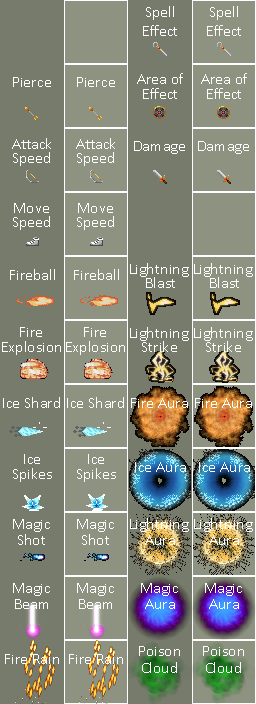
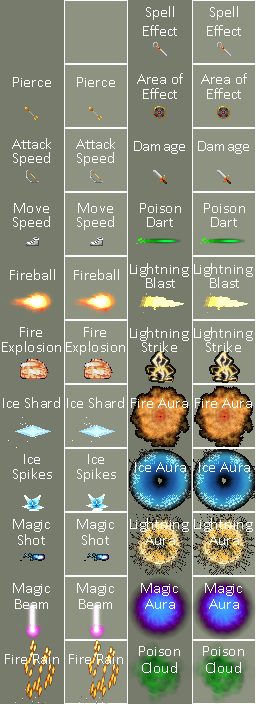
Replace projectiles (#68)
* feat: replace fireball and ice shard

* feat: replace lightning blast

* feat: update credits

* feat: add poison dart

diff --git a/RogueliteSurvivor/RogueliteSurvivor/Scenes/GameScene.cs b/RogueliteSurvivor/RogueliteSurvivor/Scenes/GameScene.cs
@@ -156,6 +156,7 @@ namespace RogueliteSurvivor.Scenes
                 { "FireRain", Content.Load<Texture2D>(Path.Combine("Spells", "fire-rain")) },
                 { "PoisonCloud", Content.Load<Texture2D>(Path.Combine("Spells", "poison-cloud")) },
                 { "EnemyEnergyBlast", Content.Load<Texture2D>(Path.Combine("Spells", "enemy-energy-blast")) },
+                { "PoisonDart", Content.Load<Texture2D>(Path.Combine("Spells", "poison-dart")) },
 
                 { "StatBar", Content.Load<Texture2D>(Path.Combine("Hud", "StatBar")) },
                 { "HealthBar", Content.Load<Texture2D>(Path.Combine("Hud", "HealthBar")) },
@@ -193,6 +194,7 @@ namespace RogueliteSurvivor.Scenes
                 { "LightningBlastHit", Content.Load<Texture2D>(Path.Combine("Effects", "lightning-blast-hit")) },
                 { "FireballHit", Content.Load<Texture2D>(Path.Combine("Effects", "fireball-hit")) },
                 { "MagicShotHit", Content.Load<Texture2D>(Path.Combine("Effects", "magic-shot-hit")) },
+                { "PoisonDartHit", Content.Load<Texture2D>(Path.Combine("Effects", "poison-dart-hit")) },
                 { "EnemyEnergyBlastHit", Content.Load<Texture2D>(Path.Combine("Effects", "enemy-energy-blast-hit")) },
             };
 
@@ -220,6 +222,7 @@ namespace RogueliteSurvivor.Scenes
                     { "LightningBlastHit", Content.Load<SoundEffect>(Path.Combine("Sound Effects", "25_Wind_01")) },
                     { "ProjectileCast2", Content.Load<SoundEffect>(Path.Combine("Sound Effects", "35_Miss_Evade_02")) },
                     { "IceShardHit", Content.Load<SoundEffect>(Path.Combine("Sound Effects", "45_Charge_05")) },
+                    { "PoisonDartHit", Content.Load<SoundEffect>(Path.Combine("Sound Effects", "25_Wind_01")) },
                     { "EnemyDeath1", Content.Load<SoundEffect>(Path.Combine("Sound Effects", "69_Enemy_death_01")) },
                     { "EnemyDeath2", Content.Load<SoundEffect>(Path.Combine("Sound Effects", "77_flesh_02")) },
                     { "Hover", Content.Load<SoundEffect>(Path.Combine("Sound Effects", "001_Hover_01")) },

diff --git a/RogueliteSurvivor/RogueliteSurvivor/Helpers/LevelUpChoiceHelper.cs b/RogueliteSurvivor/RogueliteSurvivor/Helpers/LevelUpChoiceHelper.cs
@@ -9,6 +9,7 @@ using RogueliteSurvivor.Constants;
 using RogueliteSurvivor.Containers;
 using System;
 using System.Collections.Generic;
+using System.Diagnostics.Contracts;
 using System.Linq;
 using System.Text;
 using System.Threading.Tasks;
@@ -63,6 +64,8 @@ namespace RogueliteSurvivor.Helpers
                     return new Rectangle(xOffset, 640, 64, 64);
                 case LevelUpType.PoisonCloud:
                     return new Rectangle(128 + xOffset, 640, 64, 64);
+                case LevelUpType.PoisonDart:
+                    return new Rectangle(128 + xOffset, 192, 64, 64);
                 default:
                     return new Rectangle();
             }
@@ -157,6 +160,8 @@ namespace RogueliteSurvivor.Helpers
                     return LevelUpType.MagicAura;
                 case "PoisonCloud":
                     return LevelUpType.PoisonCloud;
+                case "PoisonDart":
+                    return LevelUpType.PoisonDart;
                 default:
                     return LevelUpType.None;
             }
@@ -210,6 +215,7 @@ namespace RogueliteSurvivor.Helpers
                 case LevelUpType.MagicBeam:
                 case LevelUpType.MagicAura:
                 case LevelUpType.PoisonCloud:
+                case LevelUpType.PoisonDart:
                     var spells = player.GetAllComponents().Where(a => a is ISpell).ToList();
                     ISpell spell = null;
                     if (spells.Count == 1)

diff --git a/RogueliteSurvivor/RogueliteSurvivor/Constants/Spells.cs b/RogueliteSurvivor/RogueliteSurvivor/Constants/Spells.cs
@@ -23,6 +23,7 @@ namespace RogueliteSurvivor.Constants
         MagicBeam,
         MagicAura,
         PoisonCloud,
+        PoisonDart,
         EnemyMelee,
         EnemyEnergyBlast,
         Five,
@@ -50,6 +51,7 @@ namespace RogueliteSurvivor.Constants
                 Spells.MagicBeam,
                 Spells.MagicAura,
                 Spells.PoisonCloud,
+                Spells.PoisonDart,
             };
         }
 
@@ -87,6 +89,8 @@ namespace RogueliteSurvivor.Constants
                     return Spells.MagicAura;
                 case "PoisonCloud":
                     return Spells.PoisonCloud;
+                case "PoisonDart":
+                    return Spells.PoisonDart;
                 case "EnemyMelee":
                     return Spells.EnemyMelee;
                 case "EnemyEnergyBlast":
@@ -128,6 +132,8 @@ namespace RogueliteSurvivor.Constants
                     return "Magic Aura";
                 case Spells.PoisonCloud:
                     return "Poison Cloud";
+                case Spells.PoisonDart:
+                    return "Poison Dart";
                 case Spells.EnemyEnergyBlast:
                     return "Enemy Energy Blast";
                 default:

diff --git a/RogueliteSurvivor/RogueliteSurvivor/Systems/RenderHudSystem.cs b/RogueliteSurvivor/RogueliteSurvivor/Systems/RenderHudSystem.cs
@@ -518,6 +518,10 @@ namespace RogueliteSurvivor.Systems
                     rectangle.X = 0;
                     rectangle.Y = 296;
                     break;
+                case Spells.PoisonDart:
+                    rectangle.X = 37;
+                    rectangle.Y = 296;
+                    break;
             }
 
             return rectangle;

diff --git a/RogueliteSurvivor/RogueliteSurvivor/Constants/LevelUpType.cs b/RogueliteSurvivor/RogueliteSurvivor/Constants/LevelUpType.cs
@@ -23,6 +23,7 @@ namespace RogueliteSurvivor.Constants
         MagicBeam,
         MagicAura,
         PoisonCloud,
+        PoisonDart,
         SpellEffectChance,
         Pierce,
         AreaOfEffect,
